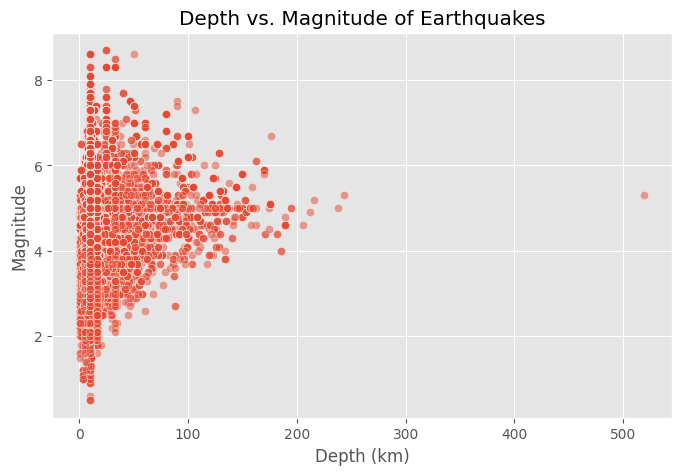
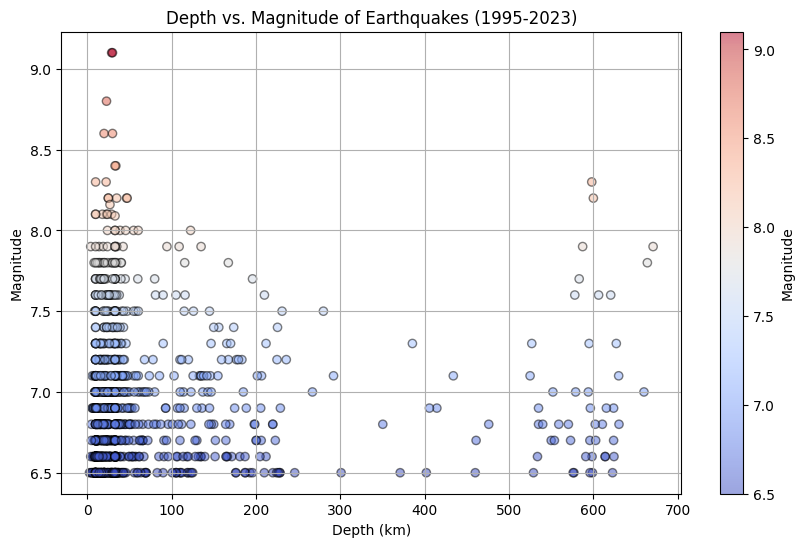
updated the Earthquake page.

diff --git a/src/pages/Earthquake.jsx b/src/pages/Earthquake.jsx
@@ -5,6 +5,7 @@ import eqmagnitude from "../assets/Earthquake/eqmagnitude.png";
 import eqscatter from "../assets/Earthquake/eqscatter.png";
 import eqtrend from "../assets/Earthquake/eqtrend.png";
 import eqscattergeo from "../assets/Earthquake/eqscattergeo.png";
+import eqtop10 from "../assets/Earthquake/eqtop10.png";
 
 const Earthquake = () => {
   return (
@@ -14,31 +15,28 @@ const Earthquake = () => {
       {/* Main Earthquake Image */}
       <img src={earthquakeImage} alt="Earthquake" className="nature-image" />
       <p className="intro-text">
-      Earthquakes are sudden shakings of the Earth's surface caused by the movement of tectonic plates. 
-      These powerful natural events can trigger tsunamis, landslides, and significant structural damage, 
-      posing a serious threat to human life and infrastructure.
-      
-      Earthquakes occur along fault lines, where plates move past each other, collide, or pull apart. 
-      The energy stored beneath the Earth's crust is released suddenly, sending seismic waves through the ground. 
-      The intensity of an earthquake depends on several factors, including depth, magnitude, and geological conditions.
-      
-      While some regions experience frequent minor tremors, others are at risk of major destructive earthquakes. 
-      Scientists use seismographs to measure earthquakes and determine their magnitude using the Richter scale or the Moment Magnitude Scale (Mw).
+        Earthquakes are sudden shakings of the Earth's surface caused by the movement of tectonic plates.
+        These powerful natural events can trigger tsunamis, landslides, and significant structural damage,
+        posing a serious threat to human life and infrastructure.
+
+        Earthquakes occur along fault lines, where plates move past each other, collide, or pull apart.
+        The energy stored beneath the Earth's crust is released suddenly, sending seismic waves through the ground.
+        The intensity of an earthquake depends on several factors, including depth, magnitude, and geological conditions.
+
+        While some regions experience frequent minor tremors, others are at risk of major destructive earthquakes.
+        Scientists use seismographs to measure earthquakes and determine their magnitude using the Richter scale or the Moment Magnitude Scale (Mw).
       </p>
-      
-      
+
+
 
       {/* Section: Earthquake Trend Over Time */}
       <h2>📈 Earthquake Trends Over Time 📉</h2>
       <div className="chart-container">
         <img src={eqtrend} alt="Earthquake Trend" className="chart-image" />
         <p className="chart-description">
-        Earthquake activity has increased significantly over the past two centuries. 
-        This rise is due to both improved detection methods and increasing seismic activity in certain regions.
-        
-        Early records of earthquakes were limited, but advancements in seismology and technology have led to more accurate tracking. 
-        In recent years, earthquakes with magnitude 6 or higher have become more frequent, raising concerns about the potential for 
-        devastating seismic events in urban areas.
+          A time series visualization displaying the monthly number of earthquakes over the years.
+          The fluctuations in the graph highlight periods of increased seismic activity.
+          Spikes in the data indicate years with higher-than-average earthquake occurrences.
         </p>
       </div>
 
@@ -46,12 +44,12 @@ const Earthquake = () => {
       <h2>🌡 Magnitude Distribution of Earthquakes 🌡</h2>
       <div className="chart-container right-align">
         <p className="chart-description">
-        The magnitude of an earthquake determines its energy release and destructive potential. 
-        While most earthquakes range between magnitude 4 and 6, higher magnitude earthquakes (above 7) can cause catastrophic damage.
-        
-        The frequency distribution of magnitudes follows the Gutenberg-Richter law, 
-        which suggests that smaller earthquakes are much more common than larger ones. 
-        However, even moderate earthquakes can be devastating if they occur in densely populated areas.
+          The magnitude of an earthquake determines its energy release and destructive potential.
+          While most earthquakes range between magnitude 4 and 6, higher magnitude earthquakes (above 7) can cause catastrophic damage.
+
+          The frequency distribution of magnitudes follows the Gutenberg-Richter law,
+          which suggests that smaller earthquakes are much more common than larger ones.
+          However, even moderate earthquakes can be devastating if they occur in densely populated areas.
         </p>
         <img src={eqmagnitude} alt="Earthquake Magnitude Distribution" className="chart-image" />
       </div>
@@ -61,25 +59,32 @@ const Earthquake = () => {
       <div className="chart-container">
         <img src={eqscatter} alt="Depth vs Magnitude" className="chart-image" />
         <p className="chart-description">
-        Earthquakes can be classified as shallow, intermediate, or deep, depending on their depth:
-        Shallow earthquakes (0-100 km depth): Cause the most damage since they release energy close to the Earth's surface.
-        Intermediate-depth earthquakes (100-300 km depth): Less destructive but can still cause strong ground shaking.
-        Deep earthquakes (300+ km depth): Rarely felt on the surface, but they provide valuable data about Earth’s mantle and tectonic activity.
-        Most high-magnitude earthquakes occur at shallow depths, which is why earthquake-prone regions like California, Japan, and Indonesia focus on building earthquake-resistant infrastructure.
-        </p>
+          A scatter plot showing the relationship between earthquake depth and magnitude from 1995 to 2023.
+          Darker colors indicate lower magnitudes, while lighter colors represent stronger earthquakes.
+          Most earthquakes occur at shallow depths, but deeper ones still reach high magnitudes.</p>
       </div>
 
-            {/* Section: Magnitude Distribution */}
-            <h2>🌡 Magnitude Distribution of Earthquakes 🌡</h2>
+      {/* Section: Magnitude Distribution */}
+      <h2>🌡 Magnitude Distribution of Earthquakes 🌡</h2>
       <div className="chart-container right-align">
         <p className="chart-description">
-        This scatter plot represents the locations of recorded earthquakes based on latitude and longitude. 
-        The size and color of each point indicate the magnitude of the earthquake. 
-        As expected, most earthquakes occur along tectonic plate boundaries, such as the Pacific Ring of Fire,
-         where intense seismic activity is common. This visualization highlights key earthquake-prone regions, 
-         including parts of the Americas, Asia, and the Pacific.
+          This scatter plot represents the locations of recorded earthquakes based on latitude and longitude.
+          The size and color of each point indicate the magnitude of the earthquake.
+          As expected, most earthquakes occur along tectonic plate boundaries, such as the Pacific Ring of Fire,
+          where intense seismic activity is common. This visualization highlights key earthquake-prone regions,
+          including parts of the Americas, Asia, and the Pacific.
         </p>
         <img src={eqscattergeo} alt="Earthquake Magnitude Distribution" className="chart-image" />
+      </div>
+
+      {/* Section: Depth vs. Magnitude */}
+      <h2>Highest Earthquakes</h2>
+      <div className="chart-container">
+        <img src={eqtop10} alt="Depth vs Magnitude" className="chart-image" />
+        <p className="chart-description">
+        A bar chart ranking the countries with the highest earthquake occurrences from 1995 to 2023. 
+        Indonesia tops the list, followed by Papua New Guinea and Chile. 
+        These regions are located along major tectonic plate boundaries, making them more prone to seismic activity.</p>
       </div>
 
     </div>

diff --git a/src/styles/Hero.css b/src/styles/Hero.css
@@ -427,3 +427,131 @@ input[type="file"] {
     transform: translateX(0);
   }
 }
+
+/* ✅ Responsive Design */
+@media (max-width: 1024px) {
+  .hero-heading {
+    font-size: clamp(40px, 6vw, 60px);
+  }
+
+  .hero-title {
+    font-size: clamp(24px, 4vw, 36px);
+    text-align: center;
+  }
+
+  .hero-tagline {
+    font-size: 16px;
+  }
+
+  .hero-buttons {
+    flex-direction: column;
+    gap: 10px;
+  }
+
+  .carousel-container {
+    width: 95%;
+  }
+
+  .carousel-slide {
+    flex-direction: column;
+    align-items: center;
+    gap: 15px;
+  }
+
+  .carousel-slide img {
+    width: 90%;
+    height: auto;
+    max-width: 400px;
+  }
+
+  .service-container {
+    flex-direction: column;
+    align-items: center;
+  }
+
+  .service-list {
+    flex-wrap: wrap;
+    justify-content: center;
+    gap: 15px;
+  }
+
+  .service-container.expanded {
+    flex-direction: column;
+  }
+
+  .service-container.expanded .service-list {
+    transform: translateX(0);
+    flex-direction: column;
+    align-items: center;
+  }
+
+  .service-btn {
+    width: 100px;
+    height: 100px;
+    font-size: 18px;
+    margin: 5px;
+  }
+
+  .service-title {
+    font-size: 30px;
+    margin-left: 0;
+    text-align: center;
+  }
+
+  .feature-requirements {
+    width: 90%;
+    font-size: 16px;
+  }
+
+  .feature-requirements h4 {
+    font-size: 18px;
+  }
+
+  .service-details {
+    width: 95%;
+    padding: 15px;
+  }
+
+  .generate-btn {
+    width: 80%;
+  }
+}
+
+/* ✅ Mobile View */
+@media (max-width: 600px) {
+  .hero-heading {
+    font-size: clamp(32px, 5vw, 50px);
+  }
+
+  .hero-title {
+    font-size: clamp(20px, 3.5vw, 30px);
+  }
+
+  .carousel-title {
+    font-size: 28px;
+  }
+
+  .carousel-slide img {
+    max-width: 300px;
+  }
+
+  .service-btn {
+    width: 80px;
+    height: 80px;
+    font-size: 14px;
+  }
+
+  .feature-requirements {
+    font-size: 14px;
+    line-height: 1.6;
+  }
+
+  .service-details {
+    width: 100%;
+  }
+
+  .generate-btn {
+    font-size: 14px;
+    padding: 10px 20px;
+  }
+}
